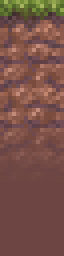
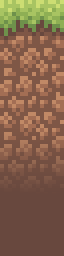
updated textures (thanks forstride)

diff --git a/assets/css/styles.css b/assets/css/styles.css
@@ -5,7 +5,7 @@ body {
 	font-family: Helvetica, Arial, sans-serif;
 	font-size: 100%;
 	color: #fff;
-	background: #6d4643 url('../img/ground-tile.png') top left repeat-x;
+	background: #68483E url('../img/ground-tile.png') top left repeat-x;
 }
 h2 {
 	margin: 0;
